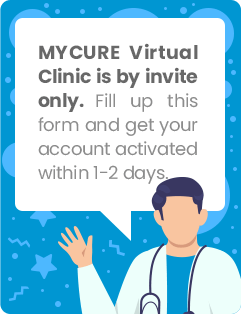
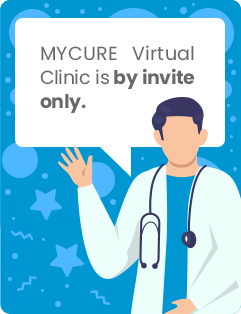
refactor: update signup invite only image and layout
resolves #722

diff --git a/components/signup-individual/invite.vue b/components/signup-individual/invite.vue
@@ -12,7 +12,8 @@
       v-col(
         cols="12"
         sm="4"
-        md="3"
+        md="4"
+        lg="3"
         xl="2"
         align-self="start"
       )
@@ -21,15 +22,13 @@
           src="~/assets/images/sign-up-individual-step-1/mycure-su-message-blank@2x.png"
           width="100%"
         )
-        p(v-if="loadingForm").text-justify.pb-12.font-20
-          strong MYCURE virtual clinic is by invite only.&nbsp;
-          | Fill up this form and get your account activated within 1-2 days.
-        span.float-right.primary--text
-          a(@click="enterReferralCode") I have a referral code.
+        p(v-if="loadingForm").text-justify.font-20
+          | MYCURE virtual clinic is&nbsp;
+          strong by invite only.
       v-col(
         cols="12"
         sm="7"
-        md="5"
+        lg="5"
         xl="4"
         justify="center"
         align-self="start"
@@ -106,14 +105,16 @@
           v-divider.my-2
           v-alert(:value="error" type="error").mt-5 {{ errorMessage }}
           v-row(no-gutters)
-            v-col(:align="!$isMobile ? 'end' : 'center'")
+            v-col(:align="!$isMobile ? 'end' : 'center'" align-self="center").mt-6
+              p(:class="{ 'float-left mt-3': !$isMobile }").primary--text
+                a(@click="enterReferralCode") I have a referral code.
               v-btn(
                 color="primary"
                 large
                 :disabled="loading || !valid"
                 :loading="loading"
                 @click="getAccess"
-              ).mt-6.font-weight-bold Get Free Access
+              ).font-weight-bold Get Free Access
       //- REFERRAL CODE DIALOG
       v-dialog(v-model="referralCodeDialog" width="350" persistent :retain-focus="false")
         v-card
